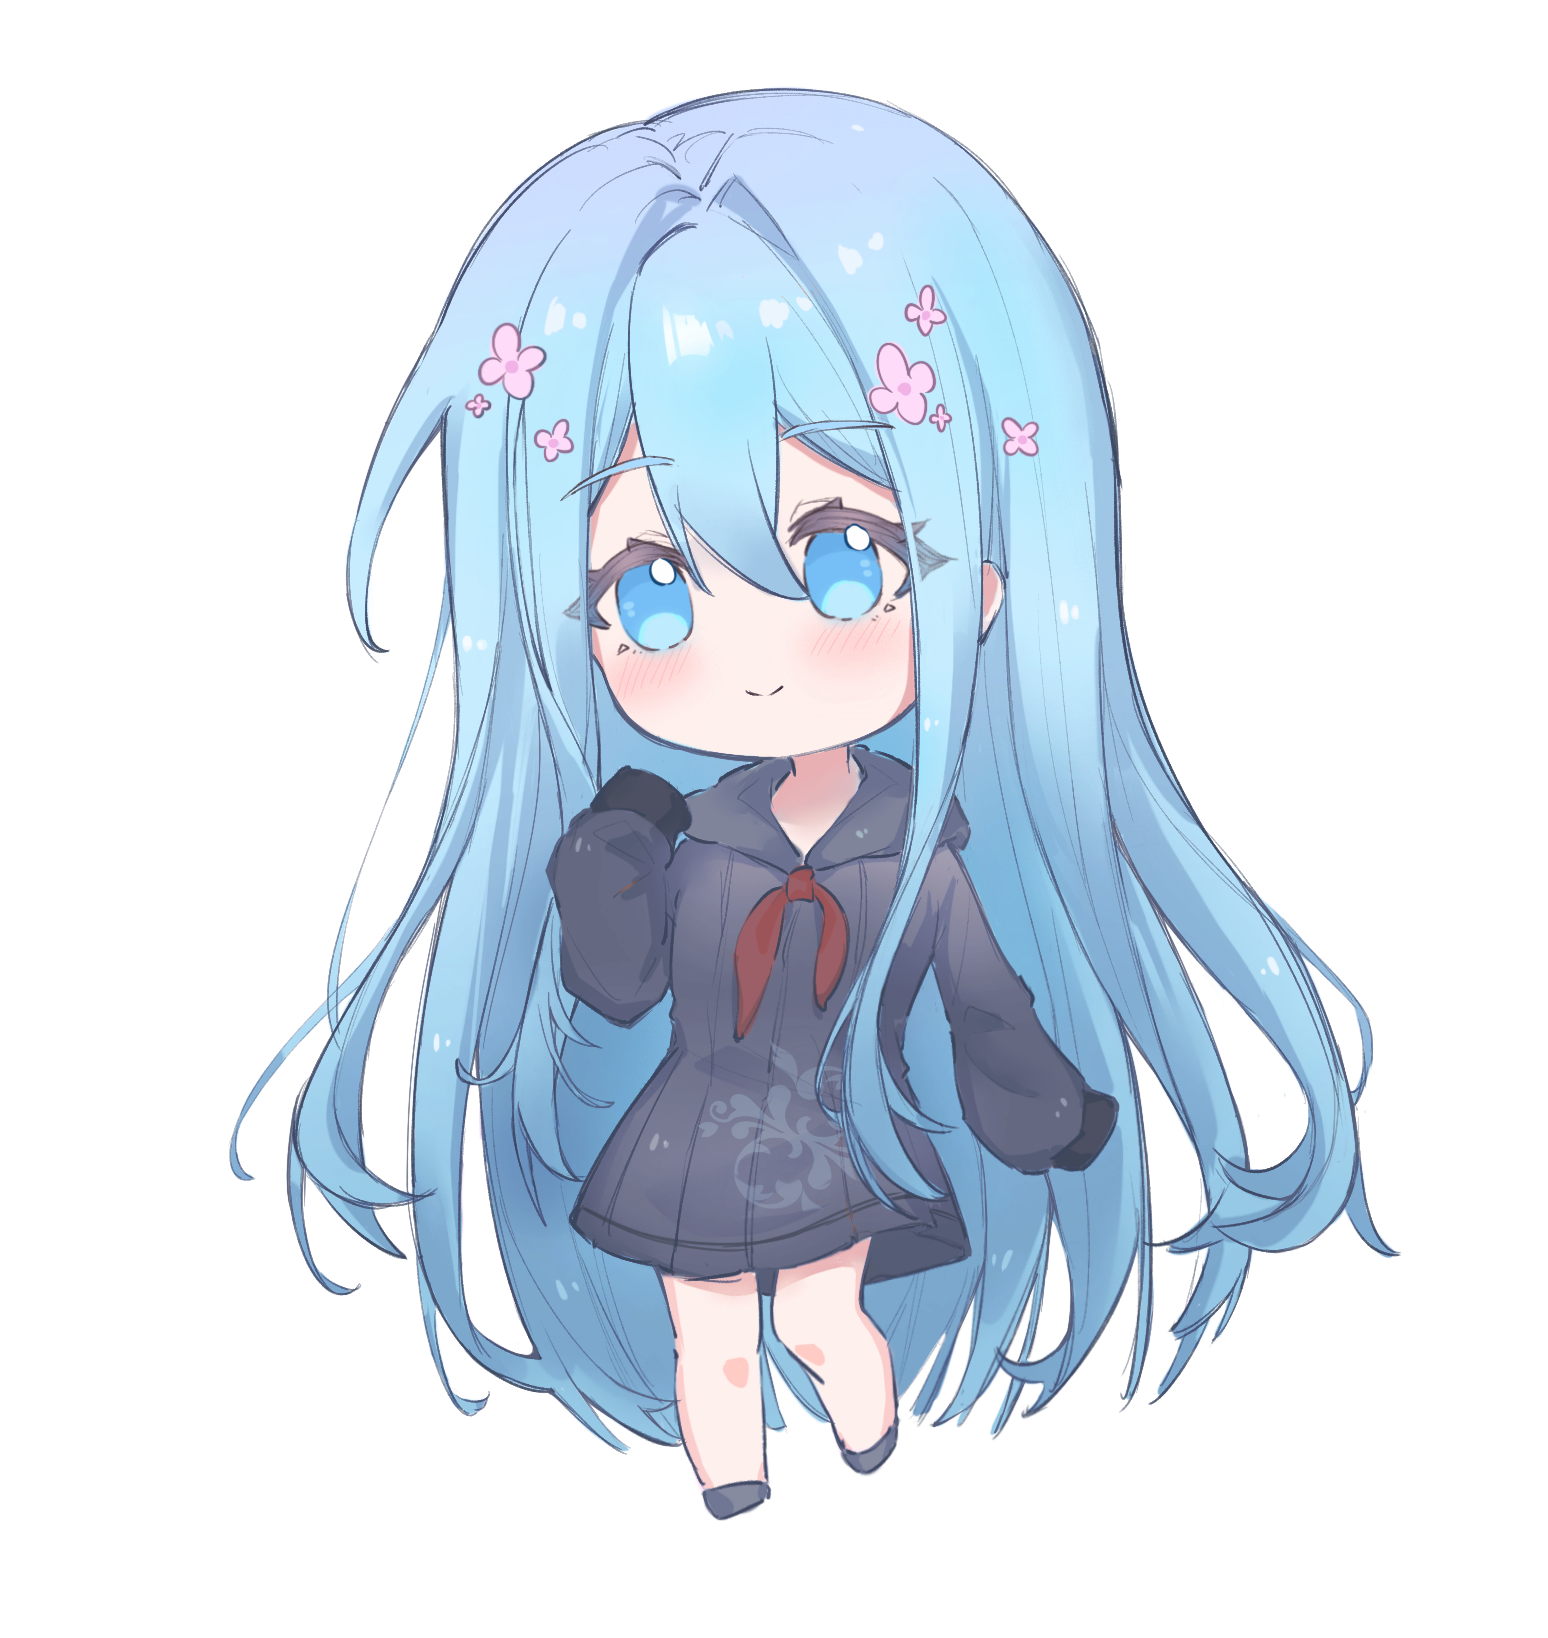
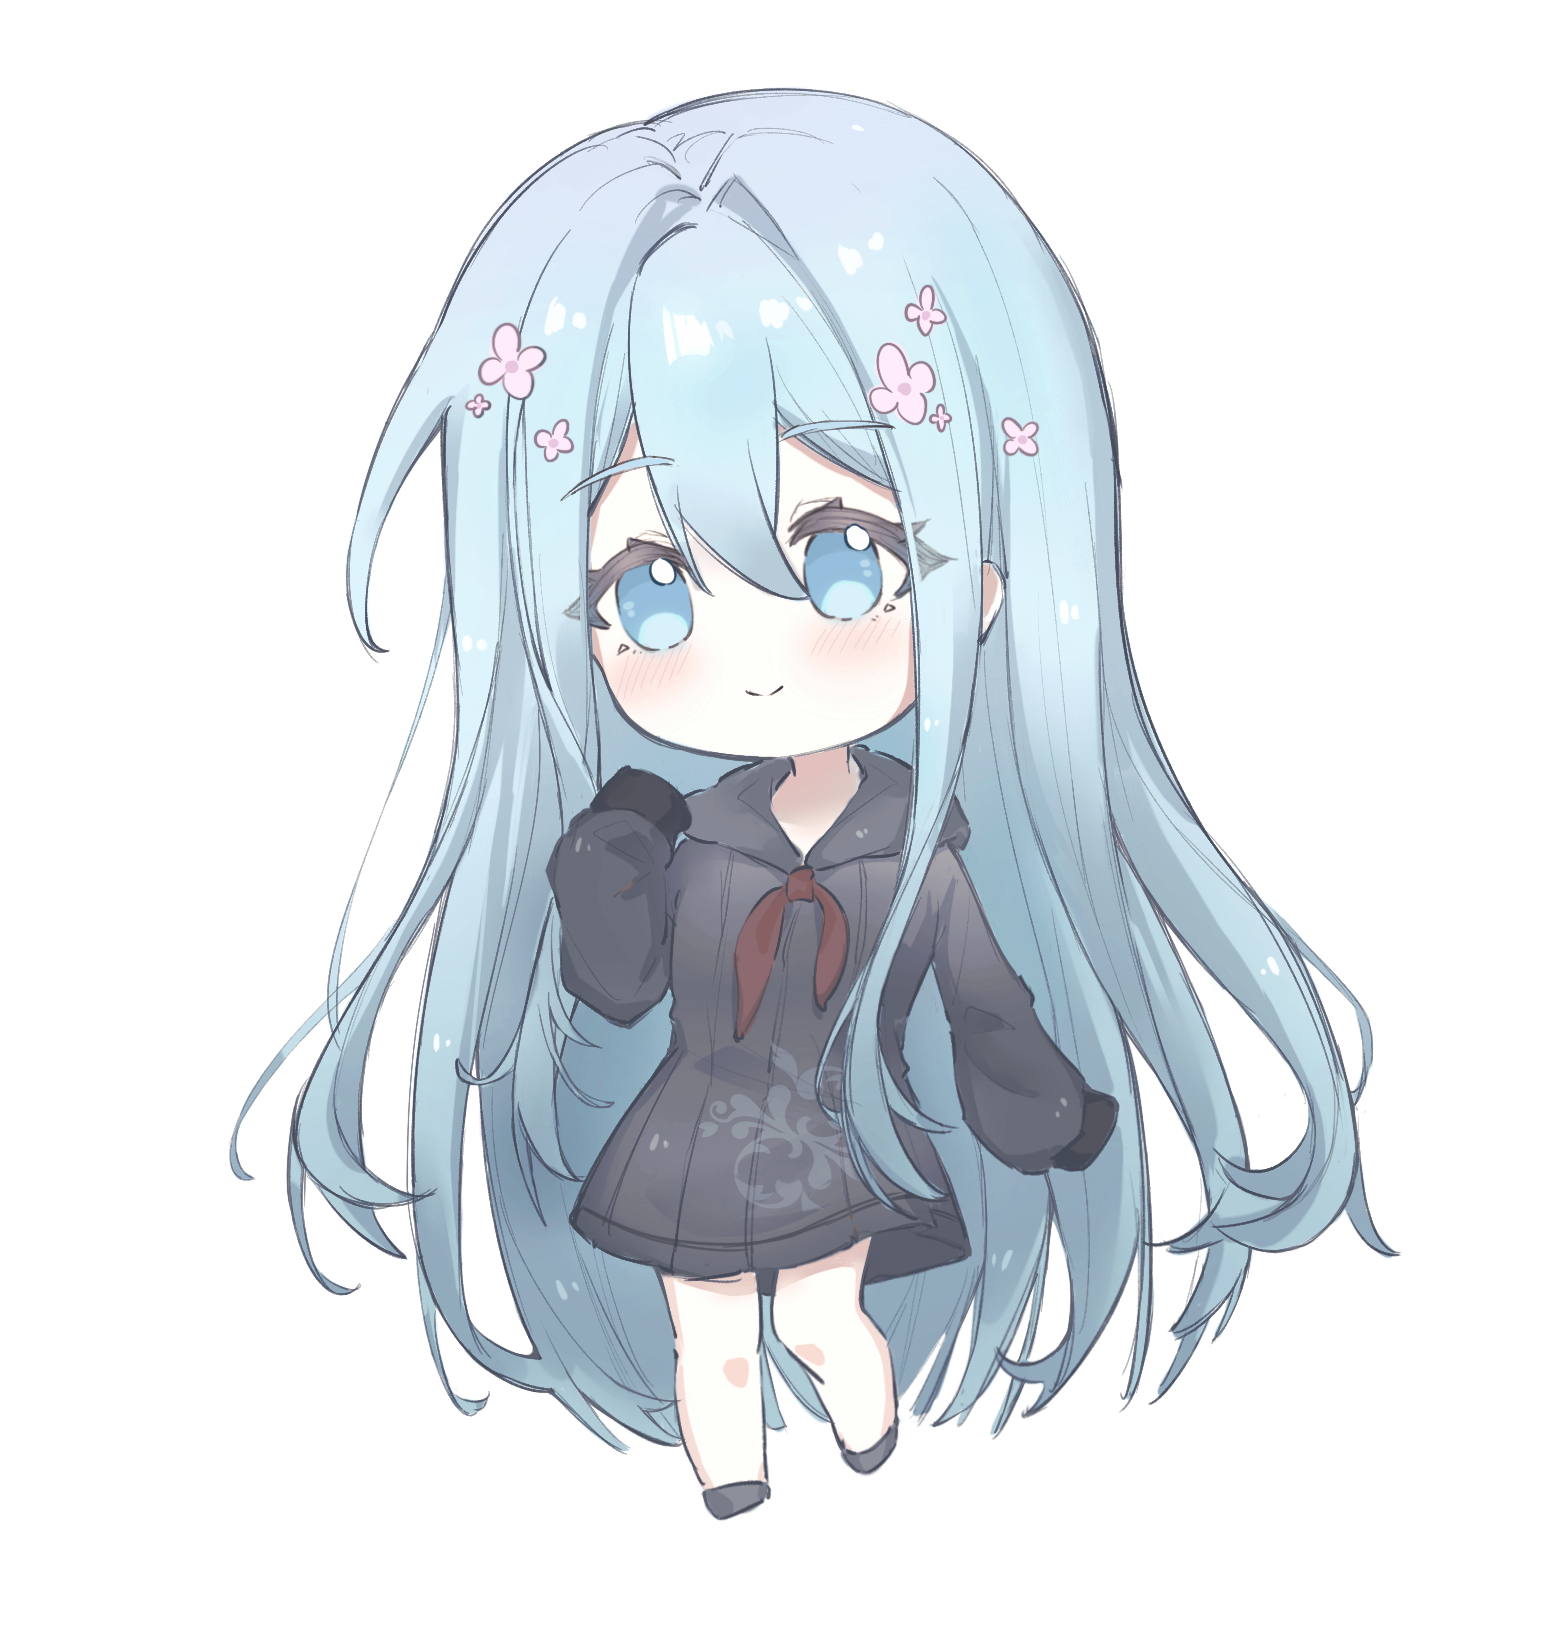
更新图标大小

diff --git a/index.html b/index.html
@@ -69,7 +69,7 @@
 
         /* 5. 点赞特效 */
         .like-btn { position: fixed; bottom: 100px; right: 30px; display: flex; flex-direction: column; align-items: center; cursor: pointer; z-index: 30; }
-        .like-btn img { width: 160px; height: 160px; transition: transform 0.2s; }
+        .like-btn img { width: 80px; height: 80px; transition: transform 0.2s; }
         .like-btn span { font-size: 11px; color: #888; margin-top: 5px; }
         .like-btn:active img { transform: scale(1.2); }
         .like-effect { position: fixed; pointer-events: none; z-index: 31; animation: floatUp 1s ease-out forwards; }
@@ -178,7 +178,7 @@
         VISITOR_PASSWORD: "senako",
         SECRET_PASSWORD: "himitsu271",
         AVATAR_URL: "avatar.png",
-        SIGNATURE: "碎碎念/发疯/日常/随笔/感悟",
+        SIGNATURE: "要等一会图片才能加载出来（）",
         INTRO_TEXT: "senako主页喔。",
         ABOUT_TEXT: "你好呀，这里存放一些senako日常碎碎念。\n背景是三无老大（参拜）\n\n可扩：1916752887\n成分：术力口|三无Marblue|maimai|phi|推理 |pjsk已退\n推：knd|miku|三无|milk|俊达萌\n产品：玄中 \n日常：画画|看推理|打音游|写歌|解谜\n拒：25时相关一切|大众雷|术萌|负能",
         PHOTO_LEFT: { title: "oc/自设", images: ["photo-l1.jpg", "photo-l2.jpg"] },
@@ -223,7 +223,7 @@
 
         ],
         BLOGS: [
-{ date: "2027-06-27", content: `[大概是一条置顶]\n”senako碎碎念“是senako创建出来为了存放那些不敢发出来，但是又很想说的文字/感悟/记录等。算是伪个人博客（w），实际上是非常拧巴的一个人，通过senako这个皮套可以说出很多平时发出来被看到会不安です的东西，大概不用再考虑别人的感受了，senako想写什么写什么ww。\n包含：发疯和碎碎念/轻度负能/一些黑泥/无处安放的焦虑/邪恶的小想法w\n除了背景其他美工部分都是我画的喔ovo\n\ntips：刷新网页会出现新的tips喔`, type: "normal" },
+{ date: "2027-06-27", content: `[大概是一条置顶]\n* ”senako碎碎念“是senako创建出来为了存放那些不敢发出来，但是又很想说的文字/感悟/记录等。算是伪个人博客（w），皮下实际上是非常拧巴的一个人，通过senako这个皮套可以说出很多平时发出来被看到会不安です的东西，大概不用再考虑别人的感受了，senako想写什么写什么ww。\n* 包含：发疯和碎碎念/轻度负能/一些黑泥/无处安放的焦虑/邪恶的小想法w\n* 除了背景其他美工部分都是我画的喔ovo\n\n* tips：刷新网页会出现新的tips喔`, type: "normal" },
 { date: "2026-08-24", content: `这段时间绘圈鉴ai像失控了一样，说实话很担心这种局面，从前几年水星之后绘圈鉴ai像刹车失灵，似乎朝着不可控的趋势发展。我并不认为这是一件好事，这里也暂时不讨论其益处。或许将其能看作“画师为了维护自己作品的产权"或者”单主为了保证自己花出去的钱没有白花，约到的稿件质量在线“而集体发起的坚决抵制ai活动，但是误伤的风险其实很大，鉴ai几乎没什么成本，空口无凭也能在评论区打出”这是ai吗“然后跑路，可是这对被误鉴的小画师的打击却是巨大的。要花大量的时间和精力在对赌上，一边要澄清一边要调整心态，还有因为被鉴导致的经济损失。看了很多鉴ai的案例我已经不太敢随便把作品发到网上了TT，代入一些没有使用ai的被鉴方真的好恐怖，所有人都跑过来围攻你，你百口莫辩，就算放出直播和绘画过程，他们还是能从中挖出那些所谓你使用ai的蛛丝马迹，或许你真的没用ai但是经历过水星事件他们已经不相信你了。很吓人，接单的画师被鉴还能说得过去，画同人的为爱发电的也被鉴看得我好无助，画画的时候会忍不住思考如果我被鉴了该怎么自证，最后得出结论自证不了的，现在已经进化成就算露手直播自证也无法被相信了。\n一开始我还没怎么关注想着他们鉴他们的我发我的又不混绘圈咋可能鉴到我头上。戳啦，只要你发画了就有被鉴的风险口牙^^\n虽然但是，用ai还不承认的小画师你们似啦^`, type: "normal" },
  { date: "2026-08-23", content: "我画不出来。好绝望啊。一直在画史。\n就这样画不出来画，做不出来歌，写不出来文\n大概是低创造力。", type: "normal" },
             { date: "2026-08-22", content: "1：31了哈哈写到这个点了困得不行。", type: "normal" },
